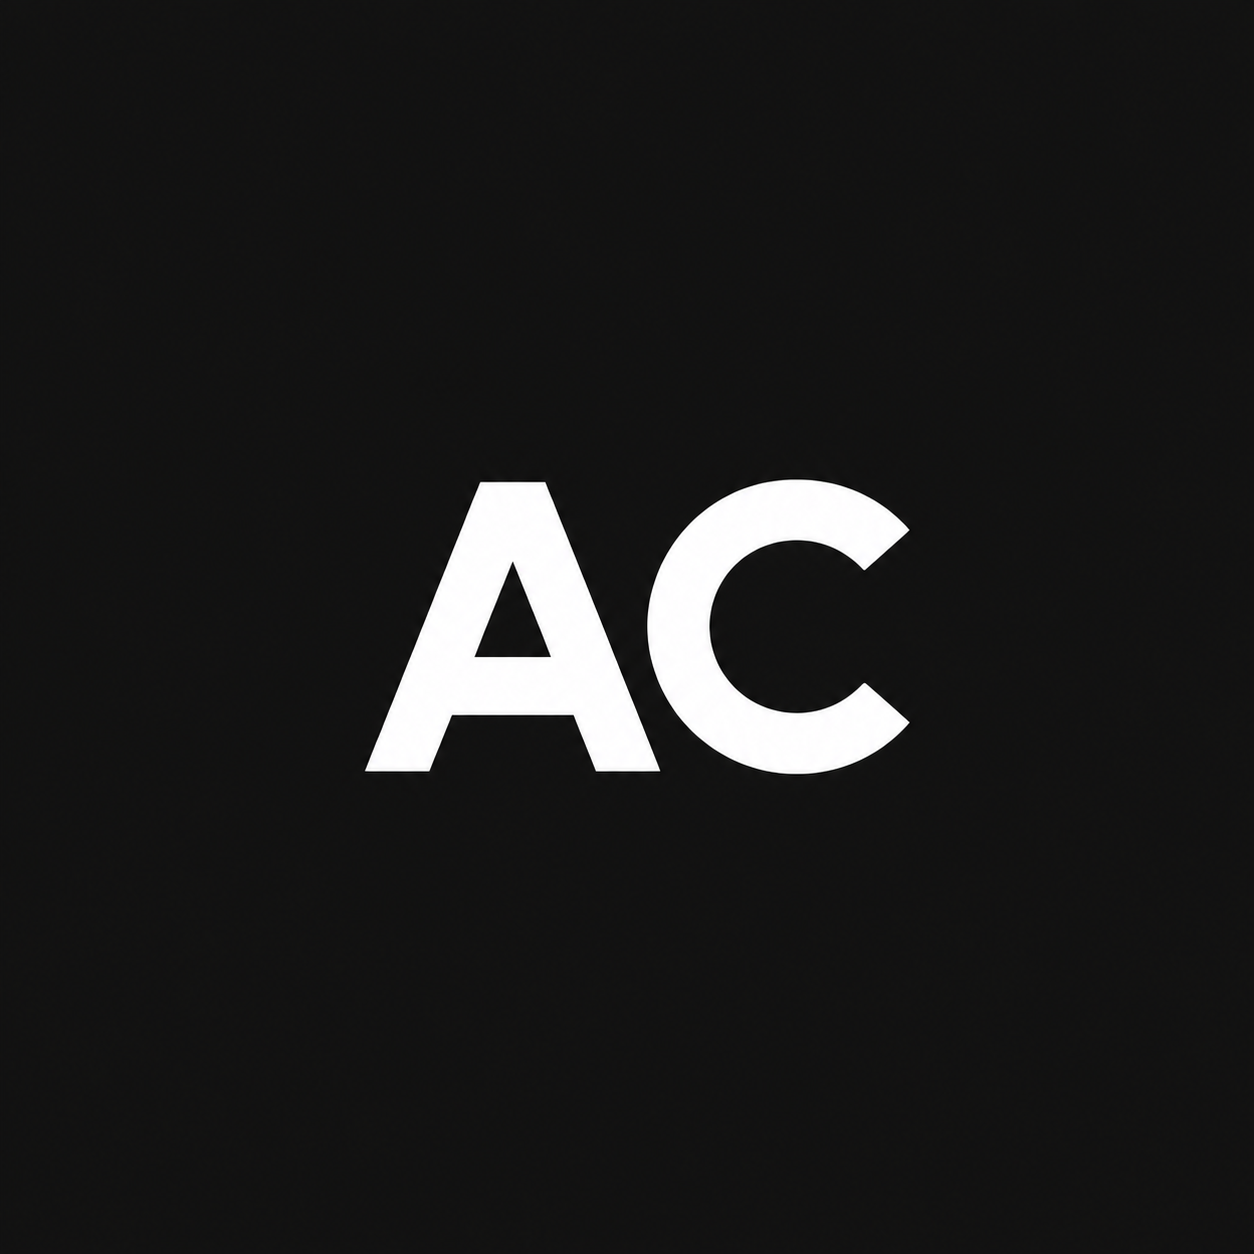
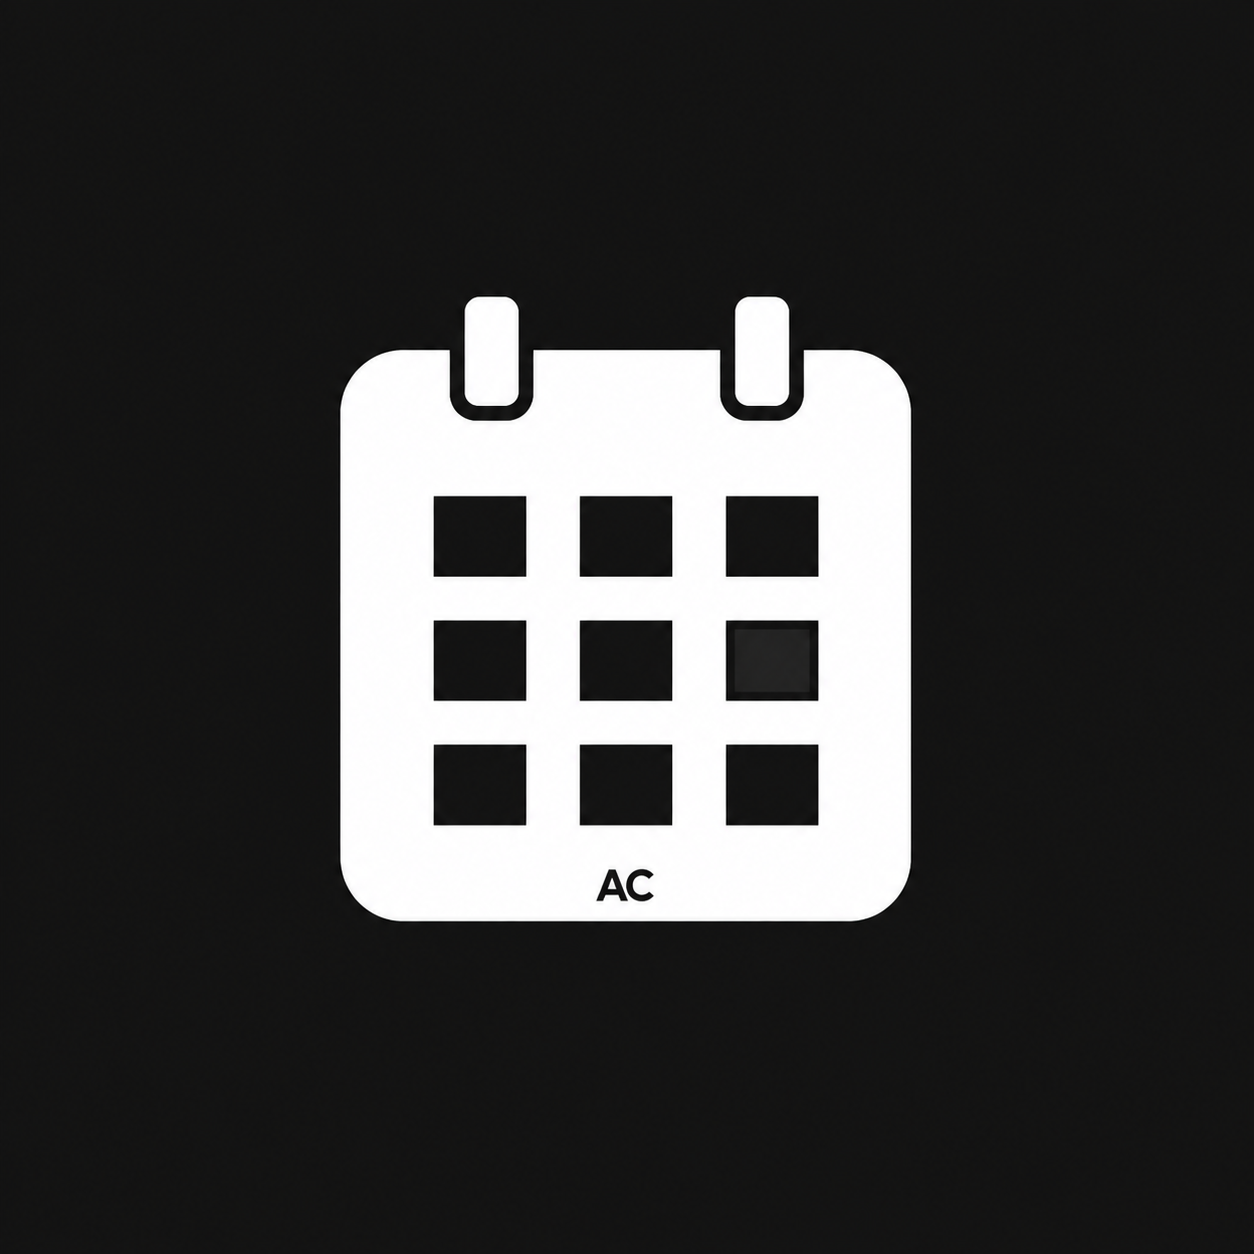
Make calendar the primary app identity

Changed region(s): [[0.2488, 0.2177, 0.7464, 0.7464]]

diff --git a/index.html b/index.html
@@ -6,8 +6,8 @@
   <meta name="theme-color" content="#171717">
   <meta name="apple-mobile-web-app-capable" content="yes">
   <meta name="apple-mobile-web-app-status-bar-style" content="black-translucent">
-  <meta name="apple-mobile-web-app-title" content="Content Cal">
-  <title>Content Cal</title>
+  <meta name="apple-mobile-web-app-title" content="Content Calendar">
+  <title>Content Calendar</title>
   <link rel="apple-touch-icon" sizes="180x180" href="icon.png">
   <link rel="icon" type="image/png" href="icon.png">
   <link rel="manifest" href="manifest.webmanifest">
